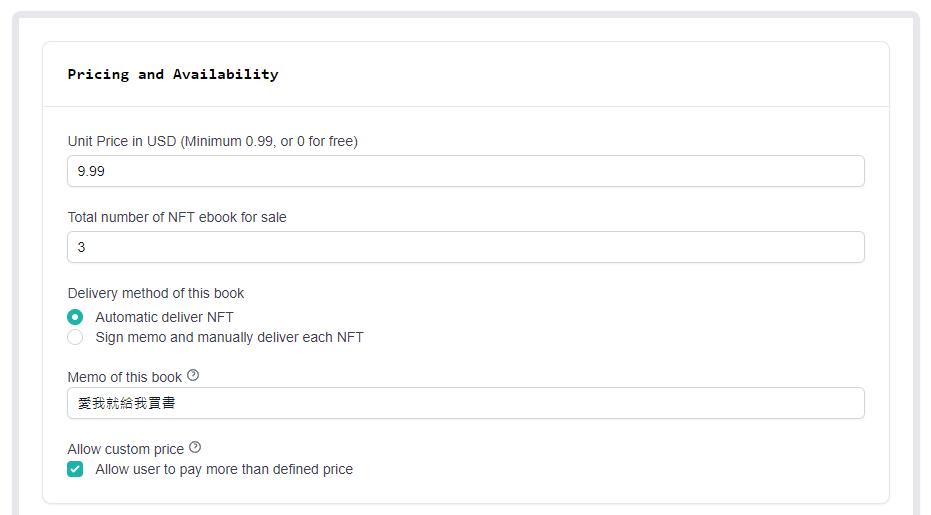
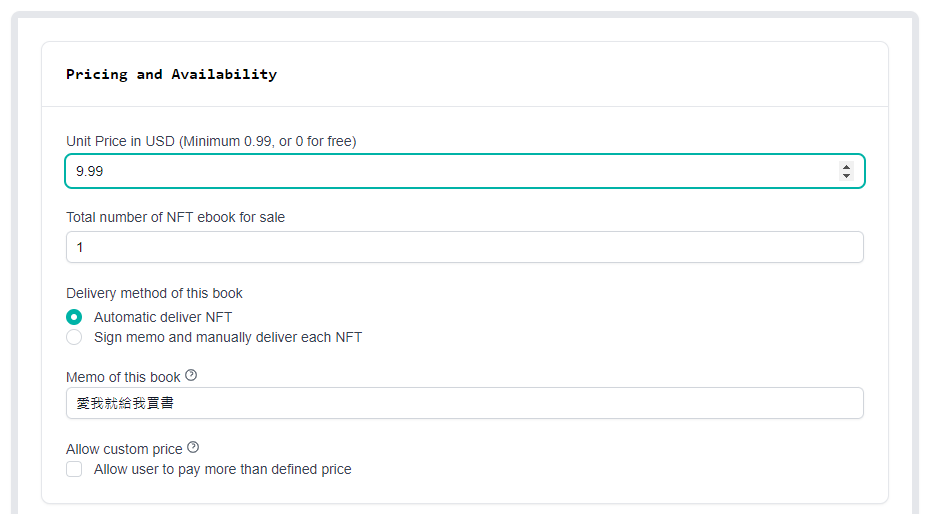
GITBOOK-4678: 補書上架

diff --git a/depub/nft-book-press/README.md b/depub/nft-book-press/README.md
@@ -5,7 +5,7 @@ description: 使用 NFT Book Press 將電子書出版為 NFT
 # 出版電子書
 
 {% hint style="info" %}
-出版前可參考 [上架 Liker Land 電子書的常見問題](nft-book-press-faq.md)
+出版前可參考 [上架 Liker Land 電子書的常見問題](faq.md)
 {% endhint %}
 
 {% hint style="info" %}
@@ -27,8 +27,8 @@ description: 使用 NFT Book Press 將電子書出版為 NFT
 8. [設置 Liker Land 書店作者簡介](./#creators-introduction)
 9. [發送電子書及群發 NFT 紀念品到多個錢包](./#fa-song-nft-ji-qun-fa-nft-ji-nian-pin-dao-duo-ge-qian-bao)
 10. [匯入 EPUB 檔案到各家閱讀器](./#ereader)
-11. [修改已出版的電子書資料](modify-ebook.md)
-12. [銷毁已出版的電子書](burn-ebook.md)
+11. [修改已出版的電子書資料](modify.md)
+12. [銷毁已出版的電子書](burn.md)
 
 參看短片了解出版原理（留意以下影片使用 Keplr 登入，如使用 Email/Social 登入流程將更為簡單）：
 
@@ -173,7 +173,7 @@ description: 使用 NFT Book Press 將電子書出版為 NFT
 ### Pricing and Availability
 
 * Unit Price in USD (Minimum 0.99 or 0 for free) - 最低價格為 0.9 美金，又或者輸入 0 代表免費送出
-* Total number of NFT ebook/edition for sale - 填寫這一個版本的電子書銷售數量。假設你鑄造了 10 本書，可以設定 5 本書為版本一、另外 5 本書為版本二之類。點下方的「Add Edition」可加入多個不同版本。留意每一個版本可供銷售的電子書數量加起來不能多於已鑄造的數量。
+* Total number of NFT ebook for sale - 填寫這一個版本的電子書銷售數量。假設你鑄造了 10 本書，可以設定 5 本書為版本一、另外 5 本書為版本二之類。點下方的「Add Edition」可加入多個不同版本。留意每一個版本可供銷售的電子書數量加起來不能多於已鑄造的數量。
 * Delivery method of this book - 可選擇兩種不同傳送電子書的方式：
   1. Automatic deliver NFT - 自動傳送電子書給讀者。選項一經設定，不能修改。
      * Memo of this book - 如選擇自動傳送電子書給讀者，於傳送時自動加入給讀者的話。

diff --git a/depub/nft-book-press/replenishment.md b/depub/nft-book-press/replenishment.md
@@ -44,6 +44,6 @@ description: 電子書太好賣了，怎樣上架更多
 
 ## 步驟五：修改可供銷售的 NFT 電子書數量 <a href="#mint-nft-book" id="mint-nft-book"></a>
 
-直接在 Total number of NFT ebook/edition for sale 修改可供銷售的 NFT 電子書數量，再點「Save Changes」即可補書上架。
+直接在 Total number of NFT for sale of this book 修改可供銷售的 NFT 電子書數量，再點「Save Changes」即可補書上架。
 
-<figure><img src="../../.gitbook/assets/Add Books 5.png" alt=""><figcaption><p>在 Total number of NFT ebook/edition for sale 修改可供銷售的 NFT 電子書數量</p></figcaption></figure>
+<figure><img src="../../.gitbook/assets/Add Books 5.png" alt=""><figcaption><p>在 Total number of NFT for sale of this book 修改可供銷售的 NFT 電子書數量</p></figcaption></figure>

diff --git a/SUMMARY.md b/SUMMARY.md
@@ -15,9 +15,9 @@
   * [用戶設定](depub/nft-book-press/user.md)
   * [Affiliation Link](depub/nft-book-press/affiliation-link.md)
   * [補書上架](depub/nft-book-press/replenishment.md)
-  * [修改已出版的電子書資料](depub/nft-book-press/modify-ebook.md)
-  * [銷毁已出版的電子書](depub/nft-book-press/burn-ebook.md)
-  * [上架 Liker Land 電子書的常見問題](depub/nft-book-press/nft-book-press-faq.md)
+  * [修改已出版的電子書資料](depub/nft-book-press/modify.md)
+  * [銷毁已出版的電子書](depub/nft-book-press/burn.md)
+  * [上架 Liker Land 電子書的常見問題](depub/nft-book-press/faq.md)
 * [購買 NFT 電子書](depub/nft-ebook/README.md)
   * [送贈 NFT 電子書](depub/nft-ebook/gift.md)
   * [其他 NFT 電子書平台](depub/nft-ebook/nft-book-platform/README.md)
